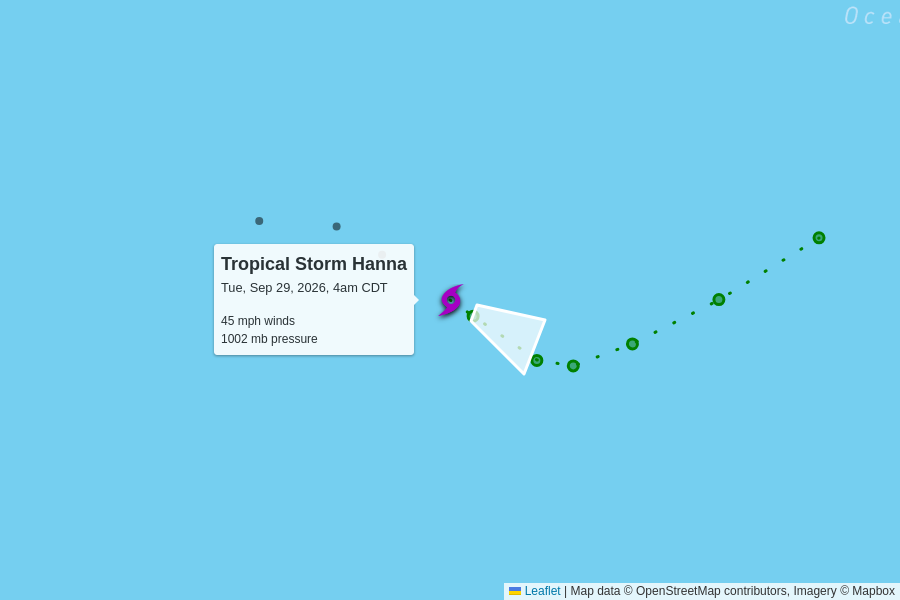
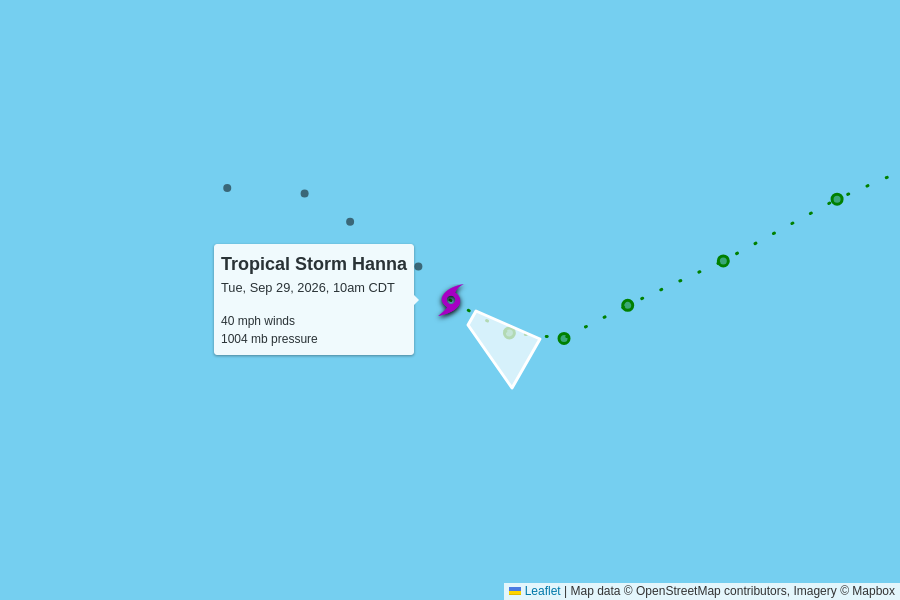
automatic update

diff --git a/docs/2026.html b/docs/2026.html
@@ -45,13 +45,13 @@
       <grid-container>
           <grid-row>
             <script type="text/json" id="storm_data_AL062026">
-              {"pressure":[{"timestamp":"2026-09-19T15:00:00.000Z","value":1009},{"timestamp":"2026-09-19T21:00:00.000Z","value":1007},{"timestamp":"2026-09-20T03:00:00.000Z","value":1007},{"timestamp":"2026-09-20T09:00:00.000Z","value":1004},{"timestamp":"2026-09-20T15:00:00.000Z","value":1004},{"timestamp":"2026-09-20T21:00:00.000Z","value":999},{"timestamp":"2026-09-21T03:00:00.000Z","value":995},{"timestamp":"2026-09-21T09:00:00.000Z","value":997},{"timestamp":"2026-09-21T15:00:00.000Z","value":1000},{"timestamp":"2026-09-21T21:00:00.000Z","value":1004},{"timestamp":"2026-09-22T03:00:00.000Z","value":1008},{"timestamp":"2026-09-22T09:00:00.000Z","value":1009},{"timestamp":"2026-09-22T15:00:00.000Z","value":1010},{"timestamp":"2026-09-22T21:00:00.000Z","value":1011},{"timestamp":"2026-09-23T21:00:00.000Z","value":1011},{"timestamp":"2026-09-24T03:00:00.000Z","value":1010},{"timestamp":"2026-09-24T09:00:00.000Z","value":1010},{"timestamp":"2026-09-24T15:00:00.000Z","value":1005},{"timestamp":"2026-09-24T21:00:00.000Z","value":1005},{"timestamp":"2026-09-25T03:00:00.000Z","value":1005},{"timestamp":"2026-09-25T09:00:00.000Z","value":1004},{"timestamp":"2026-09-25T15:00:00.000Z","value":1002},{"timestamp":"2026-09-25T21:00:00.000Z","value":1004},{"timestamp":"2026-09-26T03:00:00.000Z","value":1006},{"timestamp":"2026-09-26T09:00:00.000Z","value":1009},{"timestamp":"2026-09-26T15:00:00.000Z","value":1009},{"timestamp":"2026-09-26T21:00:00.000Z","value":1009},{"timestamp":"2026-09-27T03:00:00.000Z","value":1010},{"timestamp":"2026-09-27T09:00:00.000Z","value":1010},{"timestamp":"2026-09-27T15:00:00.000Z","value":1010},{"timestamp":"2026-09-27T21:00:00.000Z","value":1011},{"timestamp":"2026-09-28T03:00:00.000Z","value":1012},{"timestamp":"2026-09-28T09:00:00.000Z","value":1012},{"timestamp":"2026-09-28T15:00:00.000Z","value":1011},{"timestamp":"2026-09-28T21:00:00.000Z","value":1011},{"timestamp":"2026-09-29T03:00:00.000Z","value":1008},{"timestamp":"2026-09-29T09:00:00.000Z","value":1008}],"wind":[{"timestamp":"2026-09-19T15:00:00.000Z","value":35},{"timestamp":"2026-09-19T21:00:00.000Z","value":35},{"timestamp":"2026-09-20T03:00:00.000Z","value":35},{"timestamp":"2026-09-20T09:00:00.000Z","value":45},{"timestamp":"2026-09-20T15:00:00.000Z","value":60},{"timestamp":"2026-09-20T21:00:00.000Z","value":65},{"timestamp":"2026-09-21T03:00:00.000Z","value":70},{"timestamp":"2026-09-21T09:00:00.000Z","value":65},{"timestamp":"2026-09-21T15:00:00.000Z","value":50},{"timestamp":"2026-09-21T21:00:00.000Z","value":45},{"timestamp":"2026-09-22T03:00:00.000Z","value":40},{"timestamp":"2026-09-22T09:00:00.000Z","value":40},{"timestamp":"2026-09-22T15:00:00.000Z","value":35},{"timestamp":"2026-09-22T21:00:00.000Z","value":35},{"timestamp":"2026-09-23T21:00:00.000Z","value":35},{"timestamp":"2026-09-24T03:00:00.000Z","value":40},{"timestamp":"2026-09-24T09:00:00.000Z","value":40},{"timestamp":"2026-09-24T15:00:00.000Z","value":50},{"timestamp":"2026-09-24T21:00:00.000Z","value":50},{"timestamp":"2026-09-25T03:00:00.000Z","value":50},{"timestamp":"2026-09-25T09:00:00.000Z","value":50},{"timestamp":"2026-09-25T15:00:00.000Z","value":60},{"timestamp":"2026-09-25T21:00:00.000Z","value":50},{"timestamp":"2026-09-26T03:00:00.000Z","value":40},{"timestamp":"2026-09-26T09:00:00.000Z","value":35},{"timestamp":"2026-09-26T15:00:00.000Z","value":35},{"timestamp":"2026-09-26T21:00:00.000Z","value":35},{"timestamp":"2026-09-27T03:00:00.000Z","value":35},{"timestamp":"2026-09-27T09:00:00.000Z","value":35},{"timestamp":"2026-09-27T15:00:00.000Z","value":35},{"timestamp":"2026-09-27T21:00:00.000Z","value":35},{"timestamp":"2026-09-28T03:00:00.000Z","value":30},{"timestamp":"2026-09-28T09:00:00.000Z","value":35},{"timestamp":"2026-09-28T15:00:00.000Z","value":35},{"timestamp":"2026-09-28T21:00:00.000Z","value":35},{"timestamp":"2026-09-29T03:00:00.000Z","value":40},{"timestamp":"2026-09-29T09:00:00.000Z","value":40}]}
+              {"pressure":[{"timestamp":"2026-09-19T15:00:00.000Z","value":1009},{"timestamp":"2026-09-19T21:00:00.000Z","value":1007},{"timestamp":"2026-09-20T03:00:00.000Z","value":1007},{"timestamp":"2026-09-20T09:00:00.000Z","value":1004},{"timestamp":"2026-09-20T15:00:00.000Z","value":1004},{"timestamp":"2026-09-20T21:00:00.000Z","value":999},{"timestamp":"2026-09-21T03:00:00.000Z","value":995},{"timestamp":"2026-09-21T09:00:00.000Z","value":997},{"timestamp":"2026-09-21T15:00:00.000Z","value":1000},{"timestamp":"2026-09-21T21:00:00.000Z","value":1004},{"timestamp":"2026-09-22T03:00:00.000Z","value":1008},{"timestamp":"2026-09-22T09:00:00.000Z","value":1009},{"timestamp":"2026-09-22T15:00:00.000Z","value":1010},{"timestamp":"2026-09-22T21:00:00.000Z","value":1011},{"timestamp":"2026-09-23T21:00:00.000Z","value":1011},{"timestamp":"2026-09-24T03:00:00.000Z","value":1010},{"timestamp":"2026-09-24T09:00:00.000Z","value":1010},{"timestamp":"2026-09-24T15:00:00.000Z","value":1005},{"timestamp":"2026-09-24T21:00:00.000Z","value":1005},{"timestamp":"2026-09-25T03:00:00.000Z","value":1005},{"timestamp":"2026-09-25T09:00:00.000Z","value":1004},{"timestamp":"2026-09-25T15:00:00.000Z","value":1002},{"timestamp":"2026-09-25T21:00:00.000Z","value":1004},{"timestamp":"2026-09-26T03:00:00.000Z","value":1006},{"timestamp":"2026-09-26T09:00:00.000Z","value":1009},{"timestamp":"2026-09-26T15:00:00.000Z","value":1009},{"timestamp":"2026-09-26T21:00:00.000Z","value":1009},{"timestamp":"2026-09-27T03:00:00.000Z","value":1010},{"timestamp":"2026-09-27T09:00:00.000Z","value":1010},{"timestamp":"2026-09-27T15:00:00.000Z","value":1010},{"timestamp":"2026-09-27T21:00:00.000Z","value":1011},{"timestamp":"2026-09-28T03:00:00.000Z","value":1012},{"timestamp":"2026-09-28T09:00:00.000Z","value":1012},{"timestamp":"2026-09-28T15:00:00.000Z","value":1011},{"timestamp":"2026-09-28T21:00:00.000Z","value":1011},{"timestamp":"2026-09-29T03:00:00.000Z","value":1008},{"timestamp":"2026-09-29T09:00:00.000Z","value":1008},{"timestamp":"2026-09-29T15:00:00.000Z","value":1010}],"wind":[{"timestamp":"2026-09-19T15:00:00.000Z","value":35},{"timestamp":"2026-09-19T21:00:00.000Z","value":35},{"timestamp":"2026-09-20T03:00:00.000Z","value":35},{"timestamp":"2026-09-20T09:00:00.000Z","value":45},{"timestamp":"2026-09-20T15:00:00.000Z","value":60},{"timestamp":"2026-09-20T21:00:00.000Z","value":65},{"timestamp":"2026-09-21T03:00:00.000Z","value":70},{"timestamp":"2026-09-21T09:00:00.000Z","value":65},{"timestamp":"2026-09-21T15:00:00.000Z","value":50},{"timestamp":"2026-09-21T21:00:00.000Z","value":45},{"timestamp":"2026-09-22T03:00:00.000Z","value":40},{"timestamp":"2026-09-22T09:00:00.000Z","value":40},{"timestamp":"2026-09-22T15:00:00.000Z","value":35},{"timestamp":"2026-09-22T21:00:00.000Z","value":35},{"timestamp":"2026-09-23T21:00:00.000Z","value":35},{"timestamp":"2026-09-24T03:00:00.000Z","value":40},{"timestamp":"2026-09-24T09:00:00.000Z","value":40},{"timestamp":"2026-09-24T15:00:00.000Z","value":50},{"timestamp":"2026-09-24T21:00:00.000Z","value":50},{"timestamp":"2026-09-25T03:00:00.000Z","value":50},{"timestamp":"2026-09-25T09:00:00.000Z","value":50},{"timestamp":"2026-09-25T15:00:00.000Z","value":60},{"timestamp":"2026-09-25T21:00:00.000Z","value":50},{"timestamp":"2026-09-26T03:00:00.000Z","value":40},{"timestamp":"2026-09-26T09:00:00.000Z","value":35},{"timestamp":"2026-09-26T15:00:00.000Z","value":35},{"timestamp":"2026-09-26T21:00:00.000Z","value":35},{"timestamp":"2026-09-27T03:00:00.000Z","value":35},{"timestamp":"2026-09-27T09:00:00.000Z","value":35},{"timestamp":"2026-09-27T15:00:00.000Z","value":35},{"timestamp":"2026-09-27T21:00:00.000Z","value":35},{"timestamp":"2026-09-28T03:00:00.000Z","value":30},{"timestamp":"2026-09-28T09:00:00.000Z","value":35},{"timestamp":"2026-09-28T15:00:00.000Z","value":35},{"timestamp":"2026-09-28T21:00:00.000Z","value":35},{"timestamp":"2026-09-29T03:00:00.000Z","value":40},{"timestamp":"2026-09-29T09:00:00.000Z","value":40},{"timestamp":"2026-09-29T15:00:00.000Z","value":35}]}
             </script>              <grid-container class="storm">
                 <grid-row onClick="toggle('storm_AL062026')">
                   <h2>
-                    Tropical Storm Fay
+                    Tropical Depression Fay
                     <div class="updated">
-                      last updated <time datetime="2026-09-29T09:00:00.000Z">2026-09-29T09:00:00.000Z</time>
+                      last updated <time datetime="2026-09-29T15:00:00.000Z">2026-09-29T15:00:00.000Z</time>
                     </div>
                   </h2>
                 </grid-row>
@@ -67,19 +67,19 @@
                       </tr>
                       <tr>
                         <td>
-                          40 mph
+                          35 mph
                           <br>
-                          0 mph since last update
+                          -5 mph since last update
                         </td>
                         <td>
-                          1008 mb
+                          1010 mb
                           <br>
-                          0 mb since last update
+                          +2 mb since last update
                         </td>
                         <td>
-                          13 mph to the southwest
+                          12 mph to the southwest
                           <br>
-                          <span style="display: inline-block; font-size: 1.5em; transform: rotate(235deg);">↑</span>
+                          <span style="display: inline-block; font-size: 1.5em; transform: rotate(225deg);">↑</span>
                         </td>
                         <td>
                           <a href="https://raw.githubusercontent.com/mgwalker/atlantic-hurricanes/main/data/csv/AL062026.csv">AL062026.csv</a>
@@ -134,13 +134,13 @@
               </grid-container>          </grid-row>
           <grid-row>
             <script type="text/json" id="storm_data_AL082026">
-              {"pressure":[{"timestamp":"2026-09-28T15:00:00.000Z","value":1006},{"timestamp":"2026-09-28T21:00:00.000Z","value":1006},{"timestamp":"2026-09-29T03:00:00.000Z","value":1002},{"timestamp":"2026-09-29T09:00:00.000Z","value":1002}],"wind":[{"timestamp":"2026-09-28T15:00:00.000Z","value":45},{"timestamp":"2026-09-28T21:00:00.000Z","value":45},{"timestamp":"2026-09-29T03:00:00.000Z","value":45},{"timestamp":"2026-09-29T09:00:00.000Z","value":45}]}
+              {"pressure":[{"timestamp":"2026-09-28T15:00:00.000Z","value":1006},{"timestamp":"2026-09-28T21:00:00.000Z","value":1006},{"timestamp":"2026-09-29T03:00:00.000Z","value":1002},{"timestamp":"2026-09-29T09:00:00.000Z","value":1002},{"timestamp":"2026-09-29T15:00:00.000Z","value":1004}],"wind":[{"timestamp":"2026-09-28T15:00:00.000Z","value":45},{"timestamp":"2026-09-28T21:00:00.000Z","value":45},{"timestamp":"2026-09-29T03:00:00.000Z","value":45},{"timestamp":"2026-09-29T09:00:00.000Z","value":45},{"timestamp":"2026-09-29T15:00:00.000Z","value":40}]}
             </script>              <grid-container class="storm">
                 <grid-row onClick="toggle('storm_AL082026')">
                   <h2>
                     Tropical Storm Hanna
                     <div class="updated">
-                      last updated <time datetime="2026-09-29T09:00:00.000Z">2026-09-29T09:00:00.000Z</time>
+                      last updated <time datetime="2026-09-29T15:00:00.000Z">2026-09-29T15:00:00.000Z</time>
                     </div>
                   </h2>
                 </grid-row>
@@ -156,19 +156,19 @@
                       </tr>
                       <tr>
                         <td>
-                          45 mph
+                          40 mph
                           <br>
-                          0 mph since last update
+                          -5 mph since last update
                         </td>
                         <td>
-                          1002 mb
+                          1004 mb
                           <br>
-                          0 mb since last update
+                          +2 mb since last update
                         </td>
                         <td>
-                          15 mph to the east-southeast
+                          12 mph to the southeast
                           <br>
-                          <span style="display: inline-block; font-size: 1.5em; transform: rotate(115deg);">↑</span>
+                          <span style="display: inline-block; font-size: 1.5em; transform: rotate(125deg);">↑</span>
                         </td>
                         <td>
                           <a href="https://raw.githubusercontent.com/mgwalker/atlantic-hurricanes/main/data/csv/AL082026.csv">AL082026.csv</a>

diff --git a/docs/index.html b/docs/index.html
@@ -45,13 +45,13 @@
       <grid-container>
           <grid-row>
             <script type="text/json" id="storm_data_AL062026">
-              {"pressure":[{"timestamp":"2026-09-19T15:00:00.000Z","value":1009},{"timestamp":"2026-09-19T21:00:00.000Z","value":1007},{"timestamp":"2026-09-20T03:00:00.000Z","value":1007},{"timestamp":"2026-09-20T09:00:00.000Z","value":1004},{"timestamp":"2026-09-20T15:00:00.000Z","value":1004},{"timestamp":"2026-09-20T21:00:00.000Z","value":999},{"timestamp":"2026-09-21T03:00:00.000Z","value":995},{"timestamp":"2026-09-21T09:00:00.000Z","value":997},{"timestamp":"2026-09-21T15:00:00.000Z","value":1000},{"timestamp":"2026-09-21T21:00:00.000Z","value":1004},{"timestamp":"2026-09-22T03:00:00.000Z","value":1008},{"timestamp":"2026-09-22T09:00:00.000Z","value":1009},{"timestamp":"2026-09-22T15:00:00.000Z","value":1010},{"timestamp":"2026-09-22T21:00:00.000Z","value":1011},{"timestamp":"2026-09-23T21:00:00.000Z","value":1011},{"timestamp":"2026-09-24T03:00:00.000Z","value":1010},{"timestamp":"2026-09-24T09:00:00.000Z","value":1010},{"timestamp":"2026-09-24T15:00:00.000Z","value":1005},{"timestamp":"2026-09-24T21:00:00.000Z","value":1005},{"timestamp":"2026-09-25T03:00:00.000Z","value":1005},{"timestamp":"2026-09-25T09:00:00.000Z","value":1004},{"timestamp":"2026-09-25T15:00:00.000Z","value":1002},{"timestamp":"2026-09-25T21:00:00.000Z","value":1004},{"timestamp":"2026-09-26T03:00:00.000Z","value":1006},{"timestamp":"2026-09-26T09:00:00.000Z","value":1009},{"timestamp":"2026-09-26T15:00:00.000Z","value":1009},{"timestamp":"2026-09-26T21:00:00.000Z","value":1009},{"timestamp":"2026-09-27T03:00:00.000Z","value":1010},{"timestamp":"2026-09-27T09:00:00.000Z","value":1010},{"timestamp":"2026-09-27T15:00:00.000Z","value":1010},{"timestamp":"2026-09-27T21:00:00.000Z","value":1011},{"timestamp":"2026-09-28T03:00:00.000Z","value":1012},{"timestamp":"2026-09-28T09:00:00.000Z","value":1012},{"timestamp":"2026-09-28T15:00:00.000Z","value":1011},{"timestamp":"2026-09-28T21:00:00.000Z","value":1011},{"timestamp":"2026-09-29T03:00:00.000Z","value":1008},{"timestamp":"2026-09-29T09:00:00.000Z","value":1008}],"wind":[{"timestamp":"2026-09-19T15:00:00.000Z","value":35},{"timestamp":"2026-09-19T21:00:00.000Z","value":35},{"timestamp":"2026-09-20T03:00:00.000Z","value":35},{"timestamp":"2026-09-20T09:00:00.000Z","value":45},{"timestamp":"2026-09-20T15:00:00.000Z","value":60},{"timestamp":"2026-09-20T21:00:00.000Z","value":65},{"timestamp":"2026-09-21T03:00:00.000Z","value":70},{"timestamp":"2026-09-21T09:00:00.000Z","value":65},{"timestamp":"2026-09-21T15:00:00.000Z","value":50},{"timestamp":"2026-09-21T21:00:00.000Z","value":45},{"timestamp":"2026-09-22T03:00:00.000Z","value":40},{"timestamp":"2026-09-22T09:00:00.000Z","value":40},{"timestamp":"2026-09-22T15:00:00.000Z","value":35},{"timestamp":"2026-09-22T21:00:00.000Z","value":35},{"timestamp":"2026-09-23T21:00:00.000Z","value":35},{"timestamp":"2026-09-24T03:00:00.000Z","value":40},{"timestamp":"2026-09-24T09:00:00.000Z","value":40},{"timestamp":"2026-09-24T15:00:00.000Z","value":50},{"timestamp":"2026-09-24T21:00:00.000Z","value":50},{"timestamp":"2026-09-25T03:00:00.000Z","value":50},{"timestamp":"2026-09-25T09:00:00.000Z","value":50},{"timestamp":"2026-09-25T15:00:00.000Z","value":60},{"timestamp":"2026-09-25T21:00:00.000Z","value":50},{"timestamp":"2026-09-26T03:00:00.000Z","value":40},{"timestamp":"2026-09-26T09:00:00.000Z","value":35},{"timestamp":"2026-09-26T15:00:00.000Z","value":35},{"timestamp":"2026-09-26T21:00:00.000Z","value":35},{"timestamp":"2026-09-27T03:00:00.000Z","value":35},{"timestamp":"2026-09-27T09:00:00.000Z","value":35},{"timestamp":"2026-09-27T15:00:00.000Z","value":35},{"timestamp":"2026-09-27T21:00:00.000Z","value":35},{"timestamp":"2026-09-28T03:00:00.000Z","value":30},{"timestamp":"2026-09-28T09:00:00.000Z","value":35},{"timestamp":"2026-09-28T15:00:00.000Z","value":35},{"timestamp":"2026-09-28T21:00:00.000Z","value":35},{"timestamp":"2026-09-29T03:00:00.000Z","value":40},{"timestamp":"2026-09-29T09:00:00.000Z","value":40}]}
+              {"pressure":[{"timestamp":"2026-09-19T15:00:00.000Z","value":1009},{"timestamp":"2026-09-19T21:00:00.000Z","value":1007},{"timestamp":"2026-09-20T03:00:00.000Z","value":1007},{"timestamp":"2026-09-20T09:00:00.000Z","value":1004},{"timestamp":"2026-09-20T15:00:00.000Z","value":1004},{"timestamp":"2026-09-20T21:00:00.000Z","value":999},{"timestamp":"2026-09-21T03:00:00.000Z","value":995},{"timestamp":"2026-09-21T09:00:00.000Z","value":997},{"timestamp":"2026-09-21T15:00:00.000Z","value":1000},{"timestamp":"2026-09-21T21:00:00.000Z","value":1004},{"timestamp":"2026-09-22T03:00:00.000Z","value":1008},{"timestamp":"2026-09-22T09:00:00.000Z","value":1009},{"timestamp":"2026-09-22T15:00:00.000Z","value":1010},{"timestamp":"2026-09-22T21:00:00.000Z","value":1011},{"timestamp":"2026-09-23T21:00:00.000Z","value":1011},{"timestamp":"2026-09-24T03:00:00.000Z","value":1010},{"timestamp":"2026-09-24T09:00:00.000Z","value":1010},{"timestamp":"2026-09-24T15:00:00.000Z","value":1005},{"timestamp":"2026-09-24T21:00:00.000Z","value":1005},{"timestamp":"2026-09-25T03:00:00.000Z","value":1005},{"timestamp":"2026-09-25T09:00:00.000Z","value":1004},{"timestamp":"2026-09-25T15:00:00.000Z","value":1002},{"timestamp":"2026-09-25T21:00:00.000Z","value":1004},{"timestamp":"2026-09-26T03:00:00.000Z","value":1006},{"timestamp":"2026-09-26T09:00:00.000Z","value":1009},{"timestamp":"2026-09-26T15:00:00.000Z","value":1009},{"timestamp":"2026-09-26T21:00:00.000Z","value":1009},{"timestamp":"2026-09-27T03:00:00.000Z","value":1010},{"timestamp":"2026-09-27T09:00:00.000Z","value":1010},{"timestamp":"2026-09-27T15:00:00.000Z","value":1010},{"timestamp":"2026-09-27T21:00:00.000Z","value":1011},{"timestamp":"2026-09-28T03:00:00.000Z","value":1012},{"timestamp":"2026-09-28T09:00:00.000Z","value":1012},{"timestamp":"2026-09-28T15:00:00.000Z","value":1011},{"timestamp":"2026-09-28T21:00:00.000Z","value":1011},{"timestamp":"2026-09-29T03:00:00.000Z","value":1008},{"timestamp":"2026-09-29T09:00:00.000Z","value":1008},{"timestamp":"2026-09-29T15:00:00.000Z","value":1010}],"wind":[{"timestamp":"2026-09-19T15:00:00.000Z","value":35},{"timestamp":"2026-09-19T21:00:00.000Z","value":35},{"timestamp":"2026-09-20T03:00:00.000Z","value":35},{"timestamp":"2026-09-20T09:00:00.000Z","value":45},{"timestamp":"2026-09-20T15:00:00.000Z","value":60},{"timestamp":"2026-09-20T21:00:00.000Z","value":65},{"timestamp":"2026-09-21T03:00:00.000Z","value":70},{"timestamp":"2026-09-21T09:00:00.000Z","value":65},{"timestamp":"2026-09-21T15:00:00.000Z","value":50},{"timestamp":"2026-09-21T21:00:00.000Z","value":45},{"timestamp":"2026-09-22T03:00:00.000Z","value":40},{"timestamp":"2026-09-22T09:00:00.000Z","value":40},{"timestamp":"2026-09-22T15:00:00.000Z","value":35},{"timestamp":"2026-09-22T21:00:00.000Z","value":35},{"timestamp":"2026-09-23T21:00:00.000Z","value":35},{"timestamp":"2026-09-24T03:00:00.000Z","value":40},{"timestamp":"2026-09-24T09:00:00.000Z","value":40},{"timestamp":"2026-09-24T15:00:00.000Z","value":50},{"timestamp":"2026-09-24T21:00:00.000Z","value":50},{"timestamp":"2026-09-25T03:00:00.000Z","value":50},{"timestamp":"2026-09-25T09:00:00.000Z","value":50},{"timestamp":"2026-09-25T15:00:00.000Z","value":60},{"timestamp":"2026-09-25T21:00:00.000Z","value":50},{"timestamp":"2026-09-26T03:00:00.000Z","value":40},{"timestamp":"2026-09-26T09:00:00.000Z","value":35},{"timestamp":"2026-09-26T15:00:00.000Z","value":35},{"timestamp":"2026-09-26T21:00:00.000Z","value":35},{"timestamp":"2026-09-27T03:00:00.000Z","value":35},{"timestamp":"2026-09-27T09:00:00.000Z","value":35},{"timestamp":"2026-09-27T15:00:00.000Z","value":35},{"timestamp":"2026-09-27T21:00:00.000Z","value":35},{"timestamp":"2026-09-28T03:00:00.000Z","value":30},{"timestamp":"2026-09-28T09:00:00.000Z","value":35},{"timestamp":"2026-09-28T15:00:00.000Z","value":35},{"timestamp":"2026-09-28T21:00:00.000Z","value":35},{"timestamp":"2026-09-29T03:00:00.000Z","value":40},{"timestamp":"2026-09-29T09:00:00.000Z","value":40},{"timestamp":"2026-09-29T15:00:00.000Z","value":35}]}
             </script>              <grid-container class="storm">
                 <grid-row onClick="toggle('storm_AL062026')">
                   <h2>
-                    Tropical Storm Fay
+                    Tropical Depression Fay
                     <div class="updated">
-                      last updated <time datetime="2026-09-29T09:00:00.000Z">2026-09-29T09:00:00.000Z</time>
+                      last updated <time datetime="2026-09-29T15:00:00.000Z">2026-09-29T15:00:00.000Z</time>
                     </div>
                   </h2>
                 </grid-row>
@@ -67,19 +67,19 @@
                       </tr>
                       <tr>
                         <td>
-                          40 mph
+                          35 mph
                           <br>
-                          0 mph since last update
+                          -5 mph since last update
                         </td>
                         <td>
-                          1008 mb
+                          1010 mb
                           <br>
-                          0 mb since last update
+                          +2 mb since last update
                         </td>
                         <td>
-                          13 mph to the southwest
+                          12 mph to the southwest
                           <br>
-                          <span style="display: inline-block; font-size: 1.5em; transform: rotate(235deg);">↑</span>
+                          <span style="display: inline-block; font-size: 1.5em; transform: rotate(225deg);">↑</span>
                         </td>
                         <td>
                           <a href="https://raw.githubusercontent.com/mgwalker/atlantic-hurricanes/main/data/csv/AL062026.csv">AL062026.csv</a>
@@ -134,13 +134,13 @@
               </grid-container>          </grid-row>
           <grid-row>
             <script type="text/json" id="storm_data_AL082026">
-              {"pressure":[{"timestamp":"2026-09-28T15:00:00.000Z","value":1006},{"timestamp":"2026-09-28T21:00:00.000Z","value":1006},{"timestamp":"2026-09-29T03:00:00.000Z","value":1002},{"timestamp":"2026-09-29T09:00:00.000Z","value":1002}],"wind":[{"timestamp":"2026-09-28T15:00:00.000Z","value":45},{"timestamp":"2026-09-28T21:00:00.000Z","value":45},{"timestamp":"2026-09-29T03:00:00.000Z","value":45},{"timestamp":"2026-09-29T09:00:00.000Z","value":45}]}
+              {"pressure":[{"timestamp":"2026-09-28T15:00:00.000Z","value":1006},{"timestamp":"2026-09-28T21:00:00.000Z","value":1006},{"timestamp":"2026-09-29T03:00:00.000Z","value":1002},{"timestamp":"2026-09-29T09:00:00.000Z","value":1002},{"timestamp":"2026-09-29T15:00:00.000Z","value":1004}],"wind":[{"timestamp":"2026-09-28T15:00:00.000Z","value":45},{"timestamp":"2026-09-28T21:00:00.000Z","value":45},{"timestamp":"2026-09-29T03:00:00.000Z","value":45},{"timestamp":"2026-09-29T09:00:00.000Z","value":45},{"timestamp":"2026-09-29T15:00:00.000Z","value":40}]}
             </script>              <grid-container class="storm">
                 <grid-row onClick="toggle('storm_AL082026')">
                   <h2>
                     Tropical Storm Hanna
                     <div class="updated">
-                      last updated <time datetime="2026-09-29T09:00:00.000Z">2026-09-29T09:00:00.000Z</time>
+                      last updated <time datetime="2026-09-29T15:00:00.000Z">2026-09-29T15:00:00.000Z</time>
                     </div>
                   </h2>
                 </grid-row>
@@ -156,19 +156,19 @@
                       </tr>
                       <tr>
                         <td>
-                          45 mph
+                          40 mph
                           <br>
-                          0 mph since last update
+                          -5 mph since last update
                         </td>
                         <td>
-                          1002 mb
+                          1004 mb
                           <br>
-                          0 mb since last update
+                          +2 mb since last update
                         </td>
                         <td>
-                          15 mph to the east-southeast
+                          12 mph to the southeast
                           <br>
-                          <span style="display: inline-block; font-size: 1.5em; transform: rotate(115deg);">↑</span>
+                          <span style="display: inline-block; font-size: 1.5em; transform: rotate(125deg);">↑</span>
                         </td>
                         <td>
                           <a href="https://raw.githubusercontent.com/mgwalker/atlantic-hurricanes/main/data/csv/AL082026.csv">AL082026.csv</a>
